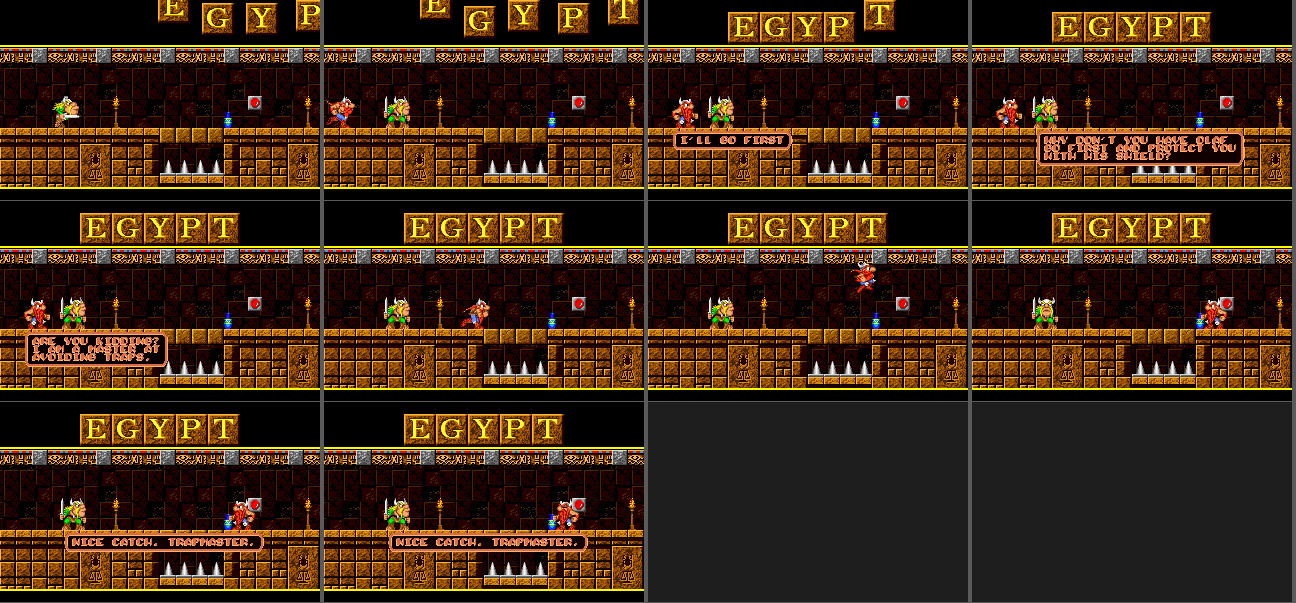
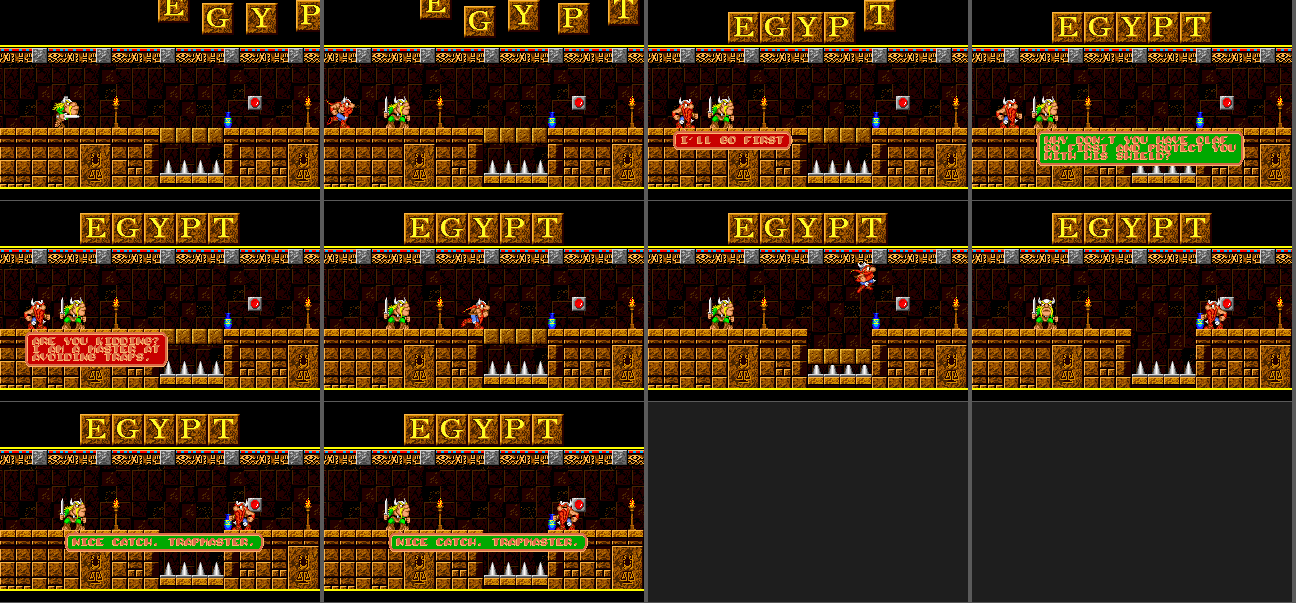
task #114 v10: the speech-box colours of the Genesis, and all five scenes checked against the REAL Genesis. The E1 talk spot's SUB_COLOR sends command 6 with 0x8000|k where k = 1 Erik / 2 Baleog / 0 Olaf (op 73 jumps when EQUAL: slot 0 falls through to 46 0180, slot 2 jumps to 46 0280, slot 4 to 46 

diff --git a/tools/assets/integrate_snes.py b/tools/assets/integrate_snes.py
@@ -684,14 +684,26 @@ def write_scene_texts(scratch):
 # `AE 1a2e` = bit tests of field 2E = the saved pool word), shows line
 # `pool & 0x0FFF`, holds 80 ticks, closes (op 42) and bumps the line
 # index: the next S on the same spot says the next line. The rows carry
-# the SMD pool words VERBATIM (flags + SMD line number); the only port
-# edits, both documented: (1) after the mask, `51 <delta> 59 16` adds the
-# PC text-bank offset (SCENE_TEXT_IDX0 - 389: our copies of lines 389..406
-# sit at 0x3BA0+k); (2) the sfx operand `02 080b` (an SMD sound id) becomes
-# the PC dialogue blip `02 2f50` used by every PC text box (1C1..1C6).
+# the SMD pool words VERBATIM (flags + SMD line number); the port edits,
+# all documented: (1) after the mask, `51 <delta> 59 16` adds the PC
+# text-bank offset (SCENE_TEXT_IDX0 - 389: our copies of lines 389..406 sit
+# at 0x3BA0+k); (2) the sfx operand `02 080b` (an SMD sound id) becomes the
+# PC dialogue blip `02 2f50` used by every PC text box (1C1..1C6); (3) the
+# three colour words of SUB_COLOR become the PC RGB555 of the Genesis fills.
 E1_SMD_MAIN = (0x25ADE, 0x25B7C)     # class code (after the 03 despawn prolog)
 E1_SMD_SUB = (0x27B0D, 0x27B27)      # SUB_COLOR: op 46 by partner slot, 06
-E1_SFX_EDIT = {0x25B4F: bytes.fromhex("2f50")}   # 02 080b -> 02 2f50 (PC dialogue sfx)
+E1_EDITS = {0x25B4F: bytes.fromhex("2f50"),      # 02 080b -> 02 2f50 (PC dialogue sfx)
+            # SUB_COLOR: `partner==2 -> jump 46 0280; ==4 -> jump 46 0080;
+            # else 46 0180` (op 73 jumps when EQUAL) = the Genesis command-6
+            # colour by speaker: 0x8000|1 Erik (slot 0), |2 Baleog (slot 2),
+            # |0 Olaf (slot 4) — a CRAM pick on the SMD. The PC command 6
+            # takes an RGB555 word (r bits 0-4, g 5-9, b 10-14, each doubled
+            # into the VGA DAC colour 3 = the box fill). The fills measured on
+            # the real Genesis (Mednafen, genesis_stand): Erik (206,0,0),
+            # Baleog (0,170,0), Olaf (170,170,0) -> 5-bit 25 / 21 / 21+21.
+            0x27B1C: bytes.fromhex("1900"),           # 46 0180 Erik   0x0019 = red
+            0x27B20: bytes.fromhex("a002"),           # 46 0280 Baleog 0x02A0 = green
+            0x27B24: bytes.fromhex("b502")}           # 46 0080 Olaf   0x02B5 = yellow
 E1_MASK_PC = 0x25AEA                 # `5F 16` (pool &= 0x0FFF): the delta add goes after it
 
 
@@ -701,7 +713,7 @@ def e1_talk_blob(base):
     import smd_lvs as SL
     delta = SCENE_TEXT_IDX0 - SMD_SCENE_LINES[0]
     ins = {E1_MASK_PC: bytes((0x51, delta & 0xFF, delta >> 8, 0x59, 0x16))}
-    blob, _ = SL.port_blob([E1_SMD_MAIN, E1_SMD_SUB], 3, base, edits=E1_SFX_EDIT, inserts=ins)
+    blob, _ = SL.port_blob([E1_SMD_MAIN, E1_SMD_SUB], 3, base, edits=E1_EDITS, inserts=ins)
     return blob
 
 
